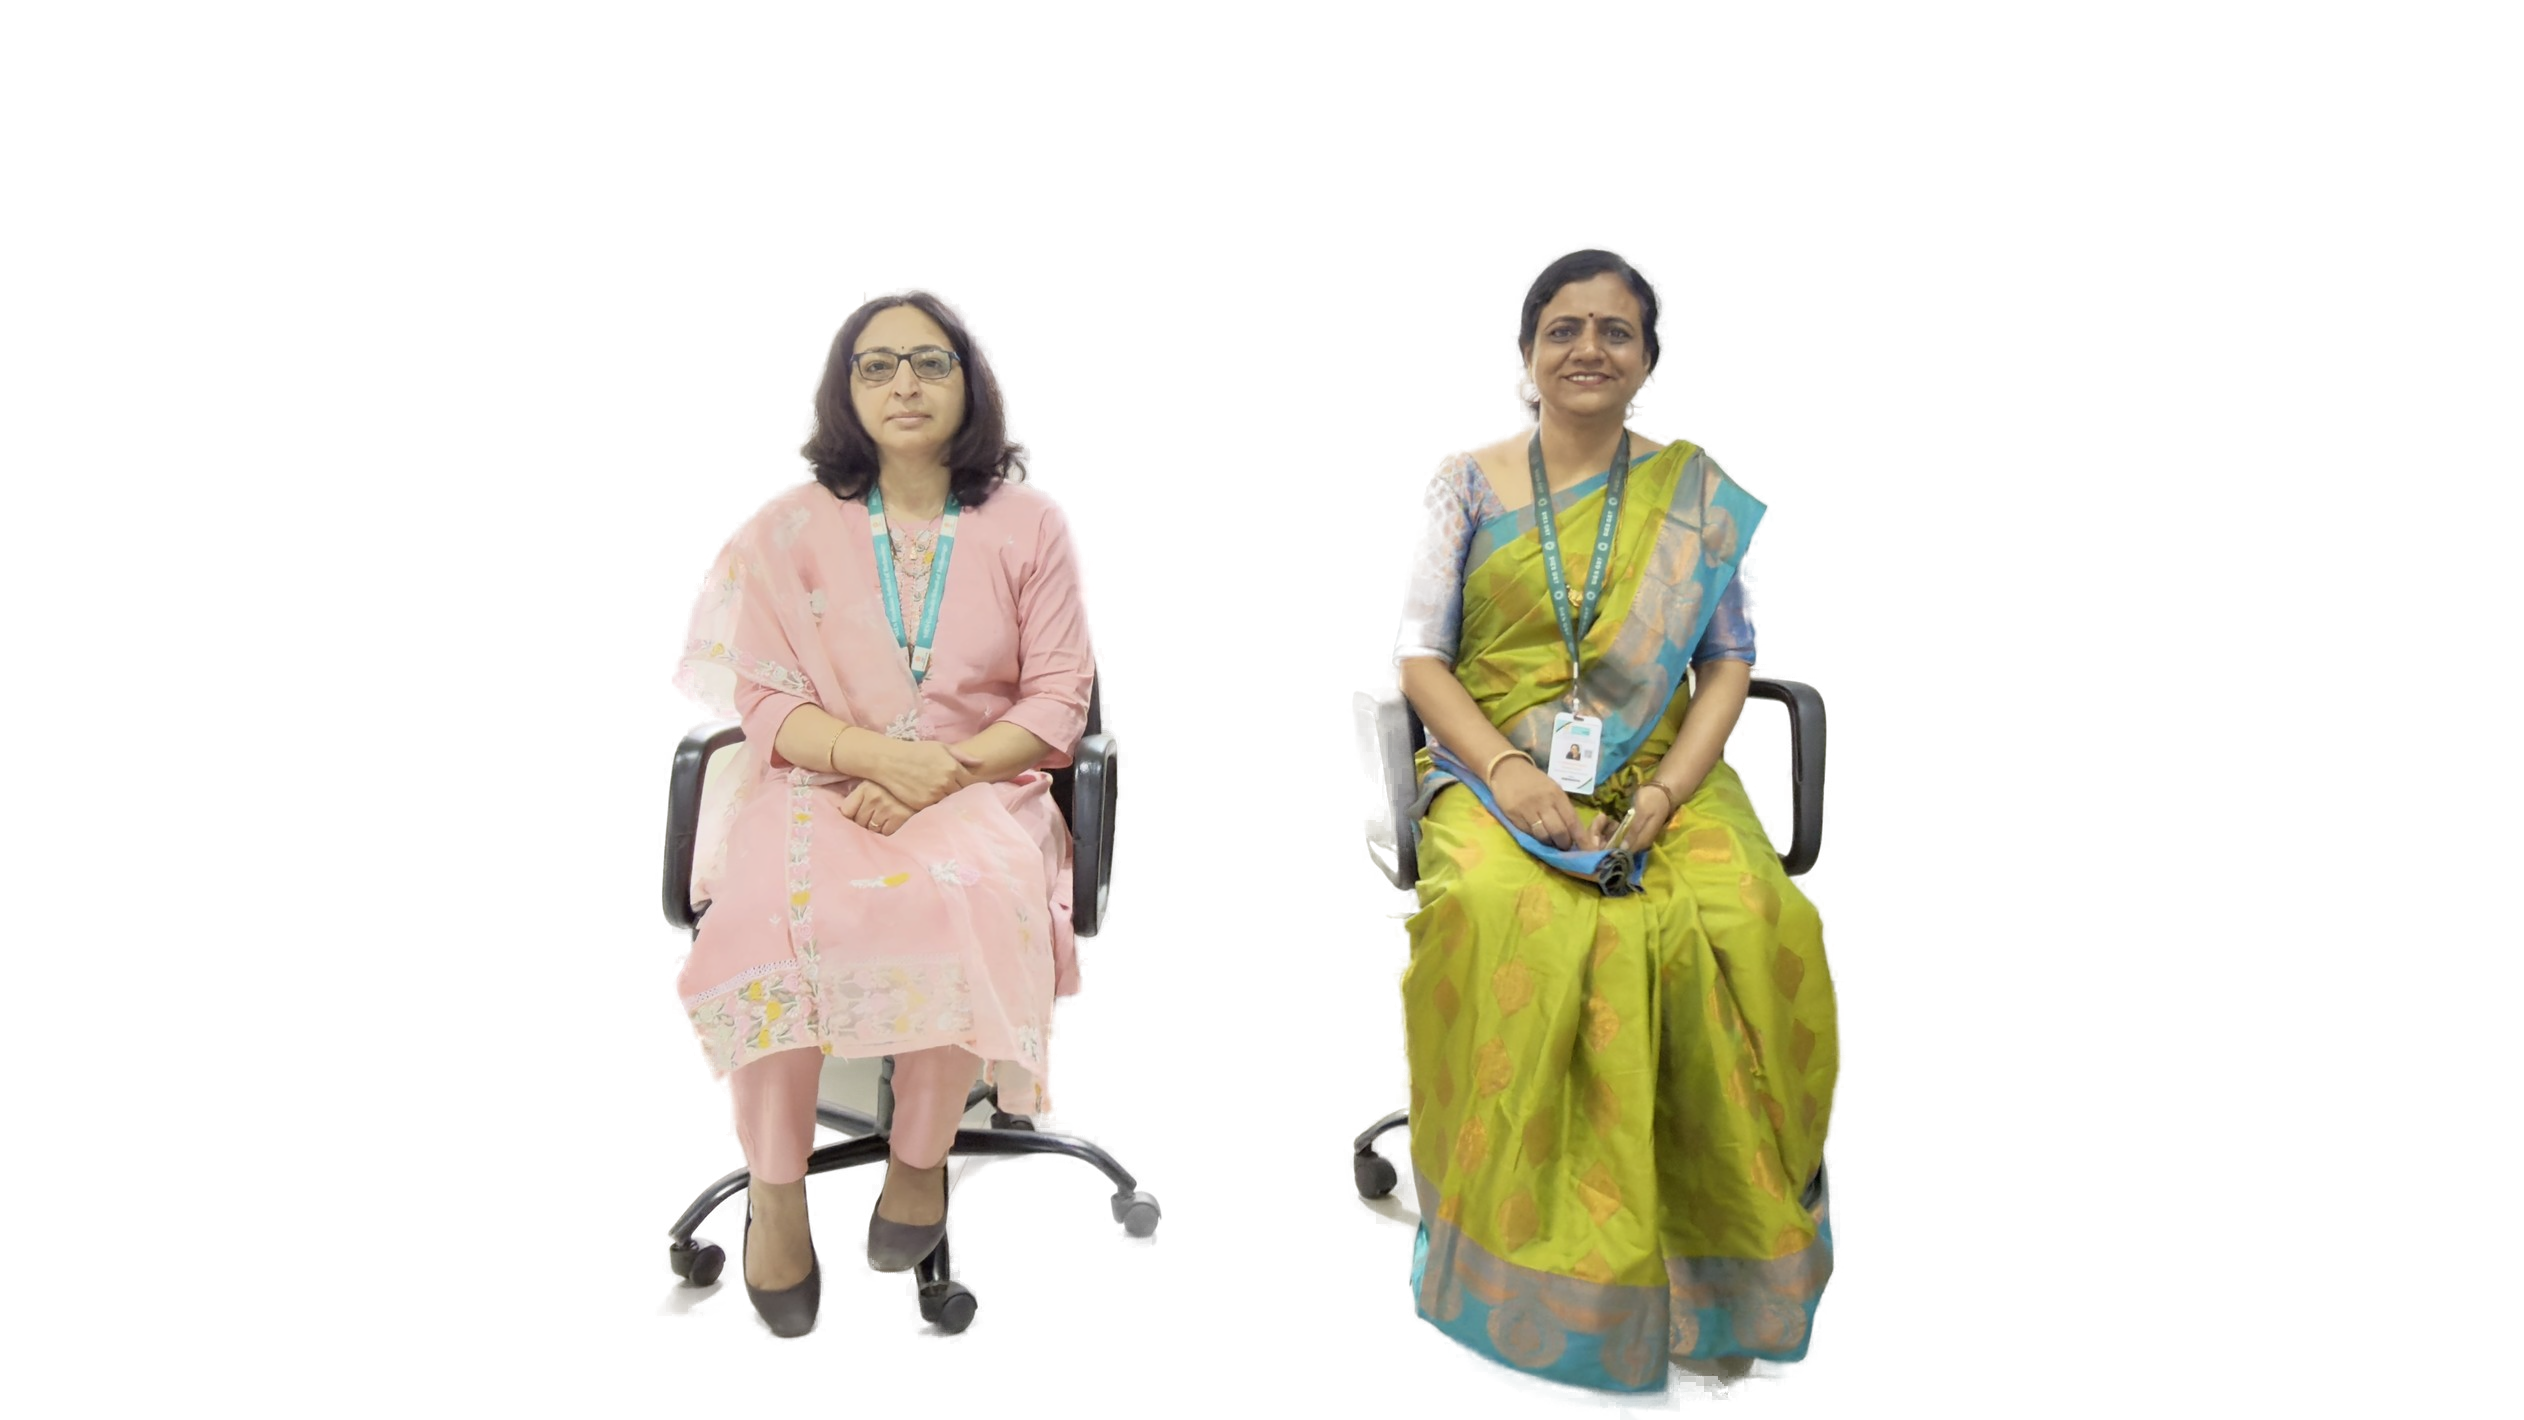
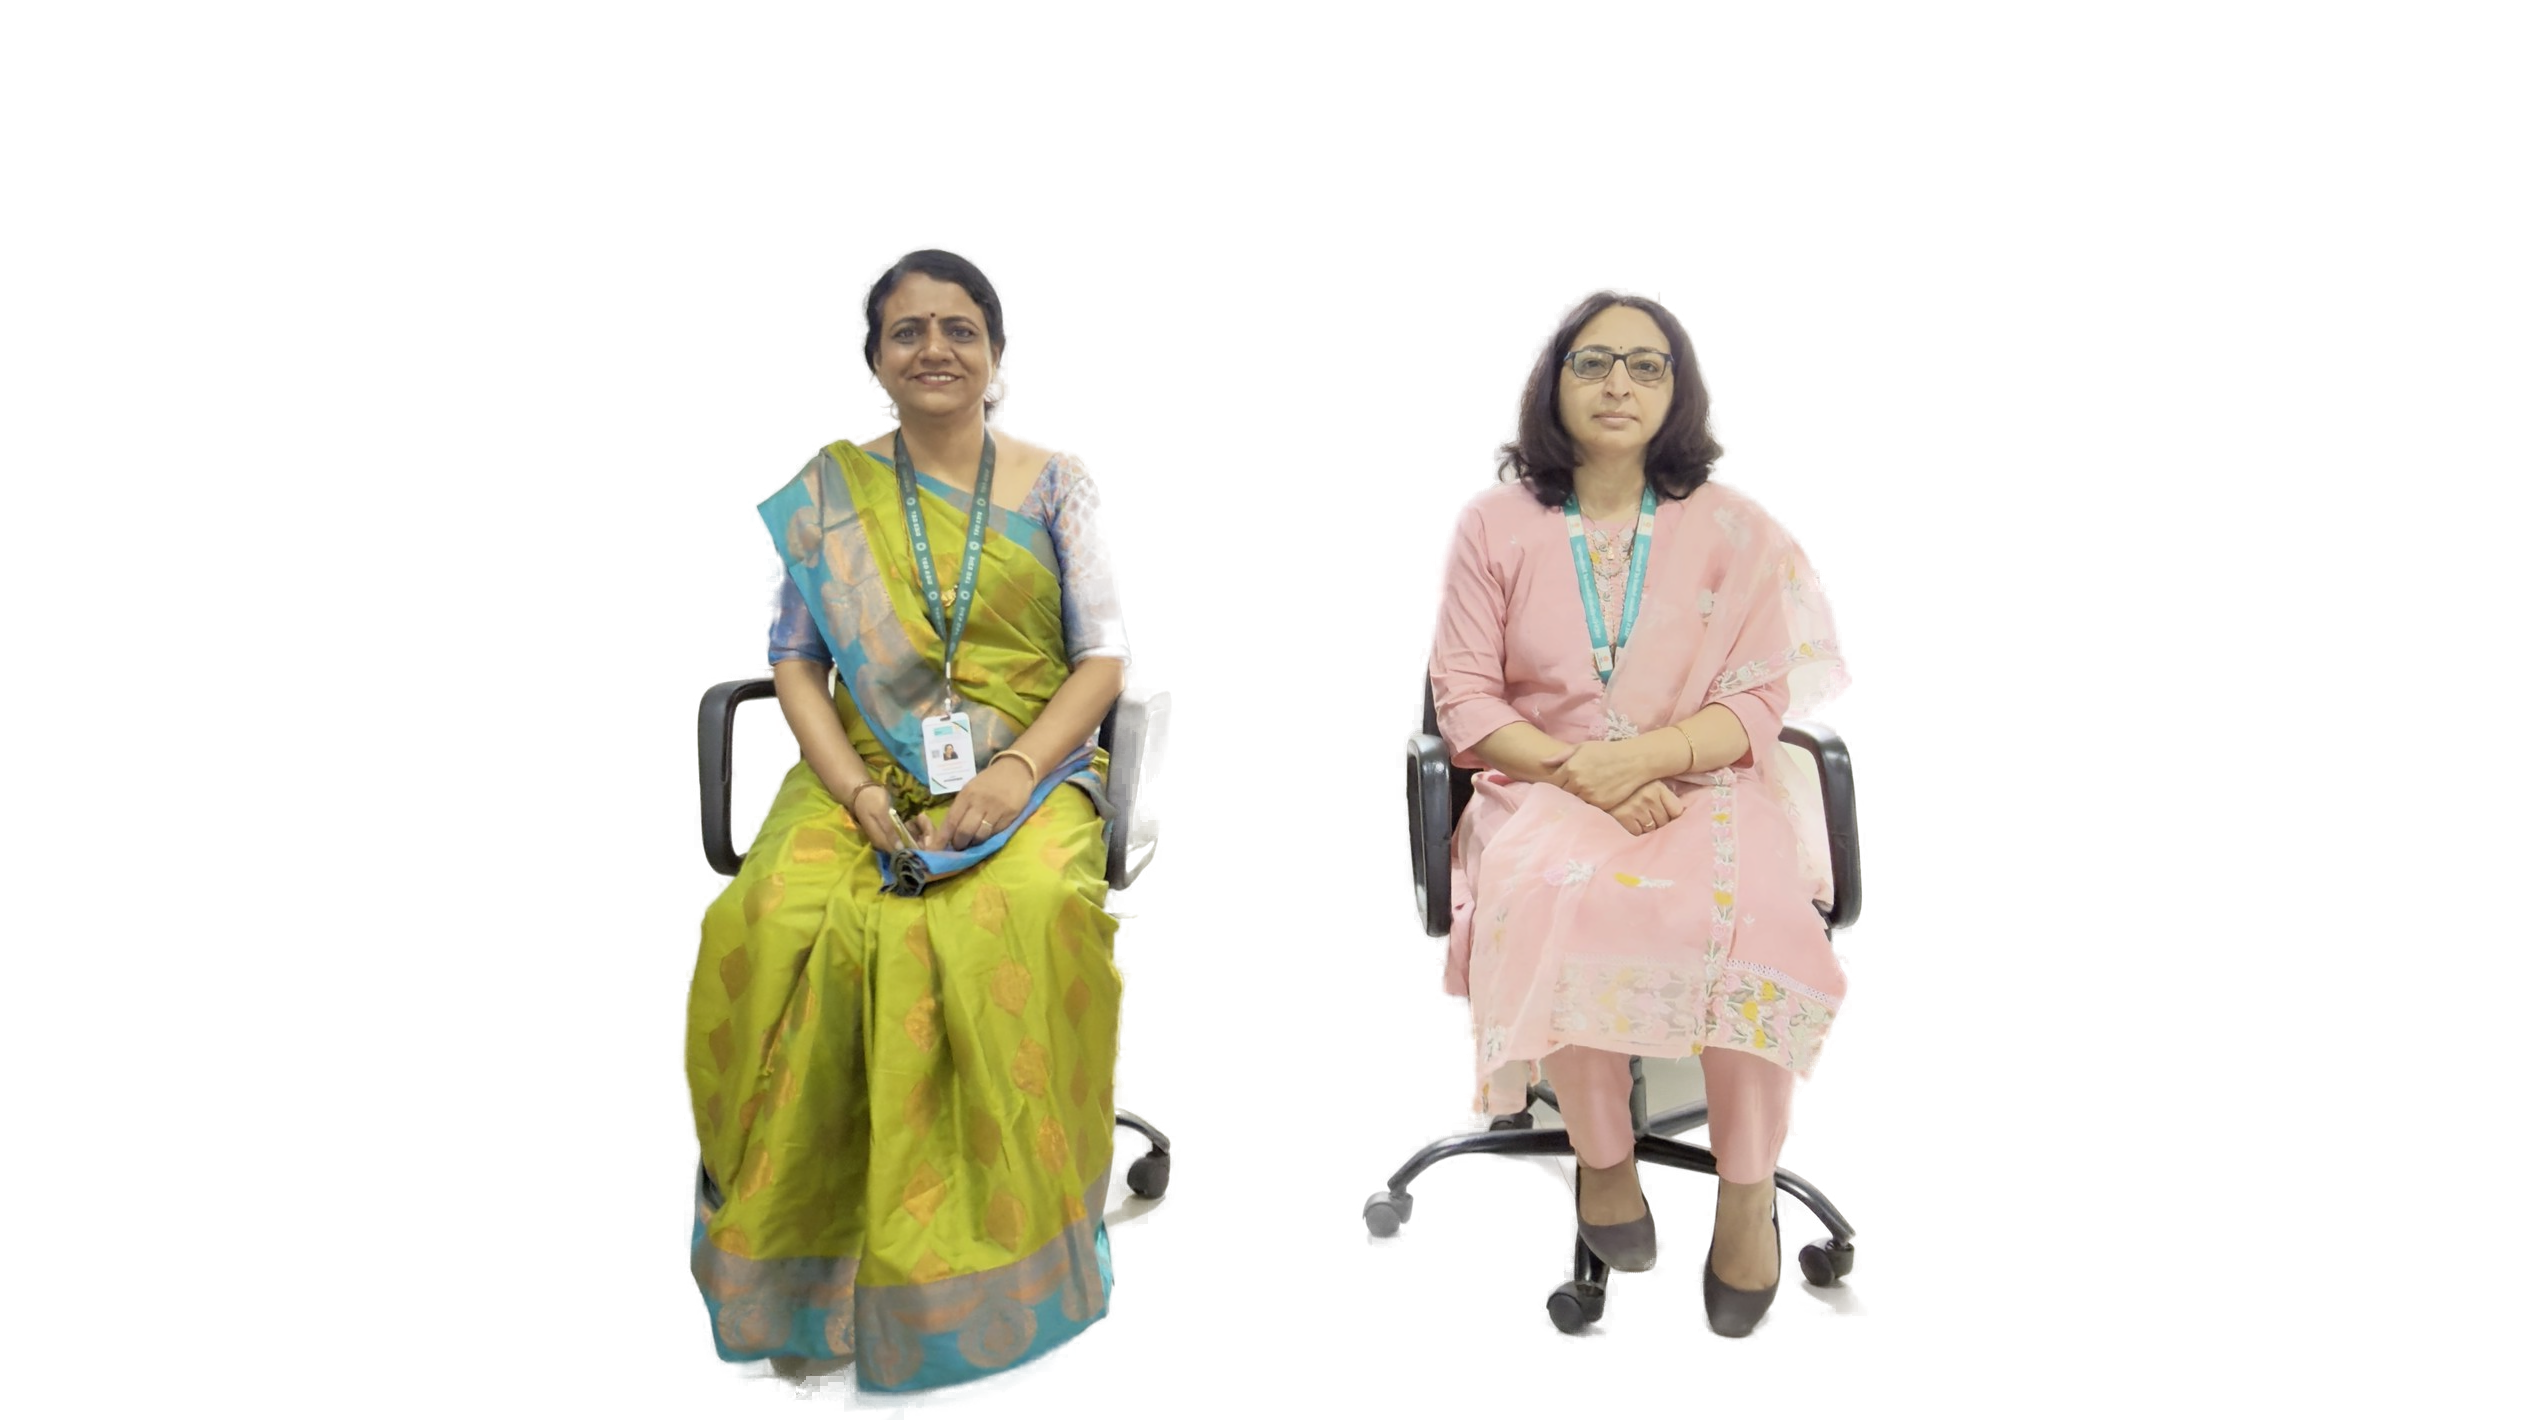
fix: switch faculty positions to place HOD on left and Jasmin Maam on right with aligned masks

Changed region(s): [[0.2472, 0.1549, 0.4635, 0.9915], [0.5254, 0.1549, 0.7417, 0.9915]]

diff --git a/src/components/LeadershipSpotlight.css b/src/components/LeadershipSpotlight.css
@@ -207,10 +207,10 @@
 }
 
 /* Silhouette Masks */
-/* mask-hirani.png covers the left person in the photo (Dr. Shubhangi Kharche) */
+/* mask-kharche.png covers Dr. Shubhangi Kharche (HOD, on the LEFT) */
 .faculty-mask-left {
-  -webkit-mask-image: url('/assets/mask-hirani.png');
-  mask-image: url('/assets/mask-hirani.png');
+  -webkit-mask-image: url('/assets/mask-kharche.png');
+  mask-image: url('/assets/mask-kharche.png');
   -webkit-mask-size: 100% 100%;
   mask-size: 100% 100%;
   -webkit-mask-repeat: no-repeat;
@@ -219,10 +219,10 @@
   mask-position: center;
 }
 
-/* mask-kharche.png covers the right person in the photo (Prof. Jasmin Hirani) */
+/* mask-hirani.png covers Prof. Jasmin Hirani (Coordinator, on the RIGHT) */
 .faculty-mask-right {
-  -webkit-mask-image: url('/assets/mask-kharche.png');
-  mask-image: url('/assets/mask-kharche.png');
+  -webkit-mask-image: url('/assets/mask-hirani.png');
+  mask-image: url('/assets/mask-hirani.png');
   -webkit-mask-size: 100% 100%;
   mask-size: 100% 100%;
   -webkit-mask-repeat: no-repeat;
